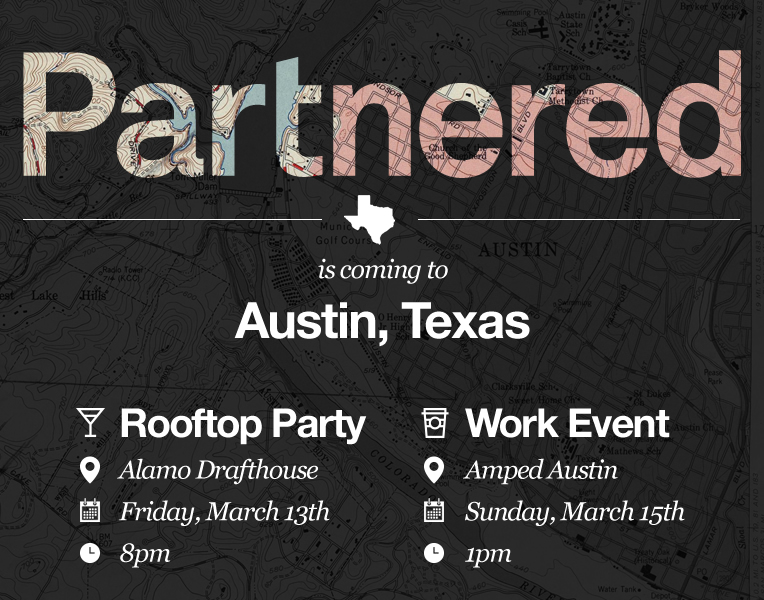
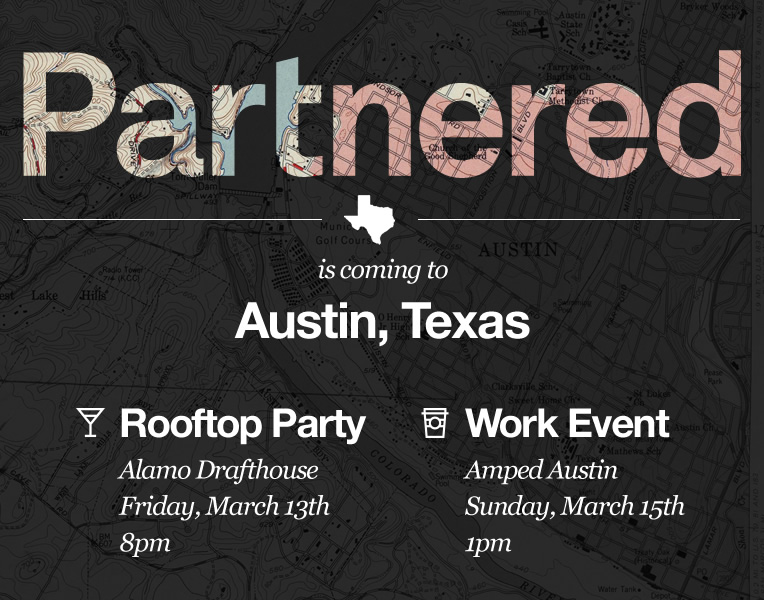
Mobile tweaks to header and new text sections in body.

Changed region(s): [[0.0903, 0.75, 0.4516, 0.96], [0.5419, 0.75, 0.9031, 0.87], [0.5419, 0.9, 0.6924, 0.96]]

diff --git a/partnered.html b/partnered.html
@@ -58,7 +58,7 @@ body, html {
 
 .project-metadata img {
     /*-webkit-filter: drop-shadow(0 20px 13px rgba(0,0,0,0.75));*/
-    width: 50%;
+    /*width: 50%;*/
 }
 
 .project-metadata ul {
@@ -69,17 +69,25 @@ body, html {
 
 .project-metadata li {
     display: inline-block;
-    margin: 30px 130px 30px 0;
+    margin: 30px 98px 30px 0;
+    text-align: left;
+}
+
+@media only screen and (min-width : 1200px) {
+    .project-metadata li {
+        margin-right: 47px;
+    }
 }
 
 @media only screen and (max-width : 630px) {
     .project-metadata img {
-        width: 100%;
+        /*width: 100%;*/
     }
 
     .project-metadata li {
         display: block;
         margin-right: 0;
+        text-align: center;
     }
 }
 
@@ -109,6 +117,7 @@ h1 {
 }
 
 h4 {
+    font-size: 22px;
     margin-top: 5px;
     margin-bottom: 20px;
 }
@@ -129,6 +138,12 @@ h5 {
 
 .work-container h5 {
     margin-bottom: 0;
+}
+
+p {
+    font-size: 22px;
+    font-weight: 300;
+    margin-bottom: 20px;
 }
 
 .screenshots {
@@ -174,7 +189,7 @@ h5 {
                 <!-- ***************** PROJECT INFO ***************** -->
                 
                 <div class="row project-metadata">
-                    <div class="col-sm-12">
+                    <div class="col-md-8 col-md-offset-2">
                         <p>
                             <img class="img-responsive center-block" src="http://d32mxho067pe0f.cloudfront.net/images/partnered/partnered-logo.png">
                         </p>
@@ -193,8 +208,18 @@ h5 {
                                 <h4>2015</h4>
                             </li>
                         </ul>
-                    </div> <!-- /col-sm-12 col-sm-offset-0 col-xs-8 col-xs-offset-2 -->
+                    </div> <!-- /col-md-8 col-md-offset-2 -->
                 </div> <!-- /row project-metadata -->
+
+
+
+                <!-- ***************** PROJECT SUMMARY ***************** -->
+                
+                <div class="row work-container">
+                    <div class="col-md-8 col-md-offset-2">
+                        <!-- <p>Lorem ipsum dolor sit amet, consectetur adipiscing elit, sed do eiusmod tempor incididunt ut labore et dolore magna aliqua. Ut enim ad minim veniam, quis nostrud exercitation ullamco laboris nisi ut aliquip ex ea commodo consequat. Duis aute irure dolor in reprehenderit in voluptate velit esse cillum dolore eu fugiat nulla pariatur. Excepteur sint occaecat cupidatat non proident, sunt in culpa qui officia deserunt mollit anim id est laborum.</p> -->
+                    </div> <!-- /col-md-8 col-md-offset-2 -->
+                </div> <!-- /row work-container -->
 
 
 
@@ -217,32 +242,85 @@ h5 {
 
             </div> <!-- /container -->
         </div> <!-- /header -->
+        
+       
+       
 
 
 
 
+        <!-- ***************** PROJECT DETAILS ***************** -->
 
-
-        <!-- ***************** DESIGN SAMPLES ***************** -->
         
         <div class="screenshots">
           <div class="container">
+
+
+
+            <div class="row">
+                <div class="col-sm-6 col-sm-offset-3">
+                    <h1>Phase 1</h1>
+                    <p>Immediately after joining, my first priority was to overhaul the free prototype and relaunch it as a paid product at SXSW. We hosted our own event with panelists from our user base and I gave product demos to VIP guests that we targeted in advance.</p>
+                    <p>The relaunch was a success and we had our first paid customers shortly afterwards.</p>
+                    <p>This was an important experience for me! I realized afterwards that after all these years of working at startups, this was my first time closing the first sale for a software product. Until then, I'd only ever worked on apps that either already had paying customers or never would.</p>
+                </div> <!-- /col-sm-6 col-sm-offset-3 -->
+            </div> <!-- row -->
+
             <div class="row">
                 <div class="col-sm-12">
-                    <h1>Screenshots</h1>
                     <img src="http://d32mxho067pe0f.cloudfront.net/images/partnered/home.jpg" class="img-responsive center-block">
                     <img src="http://d32mxho067pe0f.cloudfront.net/images/partnered/post.gif" class="img-responsive center-block">
-                    <img src="http://d32mxho067pe0f.cloudfront.net/images/partnered/readonly.jpg" class="img-responsive center-block">
                     <img src="http://d32mxho067pe0f.cloudfront.net/images/partnered/tour.jpg" class="img-responsive center-block">
-                    <img src="http://d32mxho067pe0f.cloudfront.net/images/partnered/retreat.jpg" class="img-responsive center-block">
-                    <img src="http://d32mxho067pe0f.cloudfront.net/images/partnered/landing.jpg" class="img-responsive center-block">
-                    <img src="http://d32mxho067pe0f.cloudfront.net/images/partnered/help.jpg" class="img-responsive center-block">
                     <img src="http://d32mxho067pe0f.cloudfront.net/images/partnered/sxsw.jpg" class="img-responsive center-block">
-                </div>
-            </div>
+                </div> <!-- /col-sm-12 -->
+            </div> <!-- /row -->
+
+
+            <div class="row">
+                <div class="col-sm-6 col-sm-offset-3">
+                    <h1>Phase 2</h1>
+                    <p>After the relaunch, we continuted to iterate on features and I added a research project to get to know our largest customer, an advertising agency. I met their team leader every week for several months to learn about their needs.</p>
+                    <p>What I observed was that it took too much organizational change to incorporate our product into their marketing campaigns and that was hindering a larger company-wide adoption. The solution was to redesign and expand a little-used feature called partnerships, which turned effectively turned it into a vendor database and helped track customer relationships.</p>
+                </div> <!-- /col-sm-6 col-sm-offset-3 -->
+            </div> <!-- row -->
+
+            <div class="row">
+                <div class="col-sm-12">
+                    <img src="http://d32mxho067pe0f.cloudfront.net/images/partnered/partnerships-01.png" class="img-responsive center-block">
+                    <img src="http://d32mxho067pe0f.cloudfront.net/images/partnered/partnerships-02.png" class="img-responsive center-block">
+                </div> <!-- /col-sm-12 -->
+            </div> <!-- /row -->
+
+
+
+            <div class="row">
+                <div class="col-sm-6 col-sm-offset-3">
+                    <h1>Cutting Room Floor</h1>
+                    <p>Fun little experiments that are either pending or won't see the light of day.</p>
+                </div> <!-- /col-sm-6 col-sm-offset-3 -->
+            </div> <!-- row -->
+
+            <div class="row">
+                <div class="col-sm-12">
+                    <img src="images/partnered/home-alternate.png" class="img-responsive center-block">
+                    <img src="http://d32mxho067pe0f.cloudfront.net/images/partnered/landing.jpg" class="img-responsive center-block">
+                    <img src="http://d32mxho067pe0f.cloudfront.net/images/partnered/retreat.jpg" class="img-responsive center-block">
+                    <img src="http://d32mxho067pe0f.cloudfront.net/images/partnered/readonly.jpg" class="img-responsive center-block">
+                    <img src="http://d32mxho067pe0f.cloudfront.net/images/partnered/help.jpg" class="img-responsive center-block">
+                </div> <!-- /col-sm-12 -->
+            </div> <!-- /row -->
+
+
+
           </div> <!-- /container -->
         </div> <!-- /screenshots -->
 
+
+
+
+
+
+        <!-- ***************** FOOTER ***************** -->
 
         <div class="container footer">
             <div class="row mini-nav">
@@ -258,8 +336,8 @@ h5 {
 
 
 
+        <!-- ***************** GOOGLE ANALYTICS ***************** -->
 
-		<!-- google analytics -->
 		<script src="http://www.google-analytics.com/urchin.js" type="text/javascript">
 		</script>
 		<script type="text/javascript">
